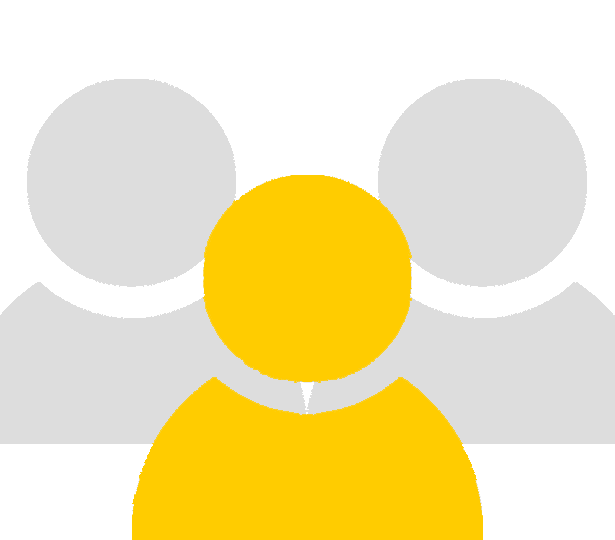
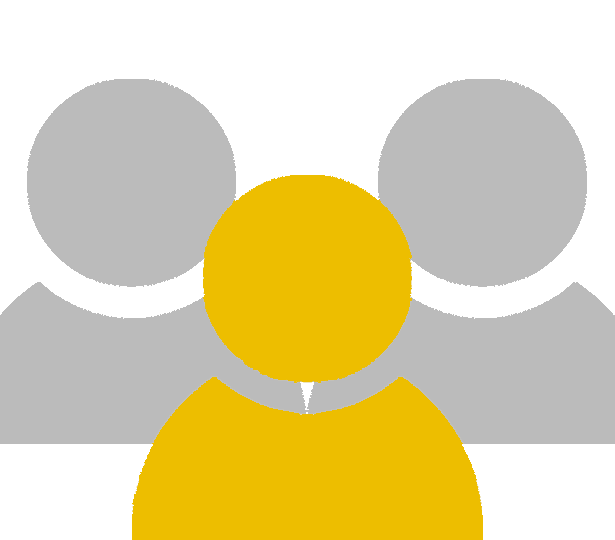
changed colors, made the close on the search pop-up stay in the top right corner when scrolling

diff --git a/client/src/components/Search.js b/client/src/components/Search.js
@@ -48,69 +48,72 @@ class One extends Component {
     const { idNum } = this.state;
     return (
       <div className="App" id="search-popup">
-        <div id="search-close" onClick={this.searchClose}></div>
-          {/* Check to see if any items are found*/}
-          <div className="input-container">
-            <div className="input-title">
-              <div>Enter Name or ID:</div>
-            </div>
-              <input type="text" id="employeeName" className="input-result"></input>
-          </div>
-          <button className="general-button" type="submit" onClick={this.getOne}>SEARCH</button>
+          <div id="test"></div>
+          <div id="search-info">
+          <div id="search-close" onClick={this.searchClose}></div>
+              {/* Check to see if any items are found*/}
+              <div className="input-container">
+                <div className="input-title">
+                  <div>Enter Name or ID:</div>
+                </div>
+                  <input type="text" id="employeeName" className="input-result"></input>
+              </div>
+              <button className="general-button" type="submit" onClick={this.getOne}>SEARCH</button>
 
-          <div id="one-list">
-              {idNum.length ? (
-                  <div><br></br>
-                        <div>
-                        {idNum.map((emp,index)=>{
-                          return(
-                            <div key={index} style={{marginBottom:"20px"}} className="one-employee">
-                              <div id="one-titles">
-                                  <span className="title">ID: </span>
-                                  <br/>
-                                  <span className="title">Name: </span>
-                                  <br/>
-                                  <span className="title">Started On: </span>
-                                  <br/>
-                                  <span className="title">{emp["DateLeft"]? `Date Left: `:""}</span>
-                                  {emp["DateLeft"]?<br/>:""}
-                                  <span className="title">Email: </span>
-                                  <br/>
-                                  <span className="title">Position: </span>
-                                  <br/>
-                                  <span className="title">Office: </span>
-                                  <br/>
-                              </div>
-                              <div id="one-results">
-                                  <span className="result">{emp["EmployeeId"]}</span>
-                                  <br/>
-                                  <span className="result">{emp["FirstName"]} {emp["LastName"]}</span>
-                                  <br/>
-                                  <span className="result">{moment(emp["DateStarted"]).format('L')}</span>
-                                  <br/>
-                                  <span className="result">{emp["DateLeft"]? `${moment(emp["DateLeft"]).format('L')}`:""}</span>
-                                  {emp["DateLeft"]?<br/>:""}
-                                  <span className="result">{emp["Email"]}</span>
-                                  <br/>
-                                  <span className="result">{emp["Title"]} in {emp["DepartmentName"]}</span>
-                                  <br/>
-                                  <span className="result">{emp["RoomNumber"]} in {emp["Building"]}</span>
-                                  <br/>
-                              </div>
-                              <div className="one-edit" value={emp["EmployeeId"]} id="search-button" onClick={() => {this.selectSuper(emp["EmployeeId"])}}>
-                                      SELECT EMPLOYEE
-                              </div>
+              <div id="one-list">
+                  {idNum.length ? (
+                      <div><br></br>
+                            <div>
+                            {idNum.map((emp,index)=>{
+                              return(
+                                <div key={index} style={{marginBottom:"20px"}} className="one-employee">
+                                  <div id="one-titles">
+                                      <span className="title">ID: </span>
+                                      <br/>
+                                      <span className="title">Name: </span>
+                                      <br/>
+                                      <span className="title">Started On: </span>
+                                      <br/>
+                                      <span className="title">{emp["DateLeft"]? `Date Left: `:""}</span>
+                                      {emp["DateLeft"]?<br/>:""}
+                                      <span className="title">Email: </span>
+                                      <br/>
+                                      <span className="title">Position: </span>
+                                      <br/>
+                                      <span className="title">Office: </span>
+                                      <br/>
+                                  </div>
+                                  <div id="one-results">
+                                      <span className="result">{emp["EmployeeId"]}</span>
+                                      <br/>
+                                      <span className="result">{emp["FirstName"]} {emp["LastName"]}</span>
+                                      <br/>
+                                      <span className="result">{moment(emp["DateStarted"]).format('L')}</span>
+                                      <br/>
+                                      <span className="result">{emp["DateLeft"]? `${moment(emp["DateLeft"]).format('L')}`:""}</span>
+                                      {emp["DateLeft"]?<br/>:""}
+                                      <span className="result">{emp["Email"]}</span>
+                                      <br/>
+                                      <span className="result">{emp["Title"]} in {emp["DepartmentName"]}</span>
+                                      <br/>
+                                      <span className="result">{emp["RoomNumber"]} in {emp["Building"]}</span>
+                                      <br/>
+                                  </div>
+                                  <div className="one-edit" value={emp["EmployeeId"]} id="search-button" onClick={() => {this.selectSuper(emp["EmployeeId"])}}>
+                                          SELECT EMPLOYEE
+                                  </div>
+                                </div>
+
+                              )})}
                             </div>
-
-                          )})}
-                        </div>
-                  </div>
-                ) : (
-                  <div>
-                    <h2>No List Items Found</h2>
-                  </div>
-                )
-              }
+                      </div>
+                    ) : (
+                      <div>
+                        <h2>No List Items Found</h2>
+                      </div>
+                    )
+                  }
+              </div>
           </div>
       </div>
     );

diff --git a/client/src/App.css b/client/src/App.css
@@ -18,7 +18,7 @@
   left: 0;
   height: 90px;
   background-color: white;
-  border-bottom: 0px solid #dddddd;
+  border-bottom: 0px solid #bbbbbb;
 }
 
 #site{
@@ -32,7 +32,7 @@
 
 h1{
   margin-bottom: 50px;
-  color: #ffcc00;
+  color: #edbe00;
 }
 
 .App {
@@ -71,7 +71,7 @@ h1{
 
 .general-button{;
   height: 50px;
-  background-color: #ffcc00;
+  background-color: #edbe00;
   border: none;
   margin: 10px;
   padding: 15px;
@@ -86,7 +86,7 @@ h1{
   display: inline-table;
   height: 30px;
   box-sizing: border-box;
-  background-color: #dddddd;
+  background-color: #bbbbbb;
   color: white;
   font-weight: bold;
   position: absolute;

diff --git a/client/src/components/Search.css b/client/src/components/Search.css
@@ -7,13 +7,20 @@
   margin-right: auto;
   margin-left: auto;
   width: 700px;
-  height: 70vh;
   min-height: 400px;
-  top: 60px;
+  top: 10px;
   border: 10px solid white;
-  padding-top: 50px;
-  overflow-y: scroll;
+  margin-top: 50px;
   display: none;
+}
+
+#search-info{
+  overflow-y: scroll;
+  height: 65vh;
+}
+
+#test{
+  height: 50px; width: 100%;
 }
 
 #search-button:hover{
@@ -23,9 +30,9 @@
 #search-close{
   width: 30px;
   height: 30px;
-  position: absolute;
   top: 5px;
   right: 5px;
+  position: absolute;
   background-image: url(./assets/close.png);
   background-repeat: no-repeat;
   background-size: contain;

diff --git a/client/src/components/Home.css b/client/src/components/Home.css
@@ -6,14 +6,14 @@
   border: none;
   font-size: 20px;
   font-weight: bold;
-  color: #ffcc00;
+  color: #edbe00;
   position: relative;
   overflow: hidden;
   display: inline-block;
 }
 
 #home-wrap button:hover{
-  background-color: #ffcc00;
+  background-color: #edbe00;
   color: #000000;
 }
 
@@ -21,7 +21,7 @@
   top: 0;
   left: 0;
   right: 0;
-  background-color: #ffcc00;
+  background-color: #edbe00;
   color: white;
   position: absolute;
   font-size: 20px;
@@ -30,7 +30,7 @@
 
 #home-wrap button:hover h2{
   background-color: white;
-  color: #ffcc00;
+  color: #edbe00;
 }
 
 .home-icon{

diff --git a/client/src/components/Home.js b/client/src/components/Home.js
@@ -6,7 +6,7 @@ class Home extends Component {
   render() {
     return (
     <div className="App">
-      <h1>Project Home</h1>
+      <h1>Employee Managment</h1>
       {/* Link to List.js */}
       <div id="home-wrap">
           <Link to={'./departments'}>

diff --git a/client/src/components/One.css b/client/src/components/One.css
@@ -45,7 +45,7 @@
   bottom: 0;
   left: 0;
   right: 0;
-  background-color: #ffcc00;
+  background-color: #edbe00;
   padding: 5px;
   color: white;
   font-weight: bold;

diff --git a/client/src/components/Nav.css b/client/src/components/Nav.css
@@ -17,7 +17,7 @@
    padding: 10px 10px;
    top: 0;
    position: absolute;
-   color: #dddddd;
+   color: #bbbbbb;
    clear: right;
    width: auto;
 }

diff --git a/client/src/components/Statistics.css b/client/src/components/Statistics.css
@@ -5,7 +5,7 @@
 .stats-result{
   display: inline-block;
   padding-left: 5px;
-  color: #ffcc00;
+  color: #edbe00;
   font-weight: bold;
 }
 

diff --git a/client/src/components/Departments.css b/client/src/components/Departments.css
@@ -1,6 +1,6 @@
 .depart-title{
   display: inline-block;
-  color: #ffcc00;
+  color: #edbe00;
   font-weight: bold;
 }
 
